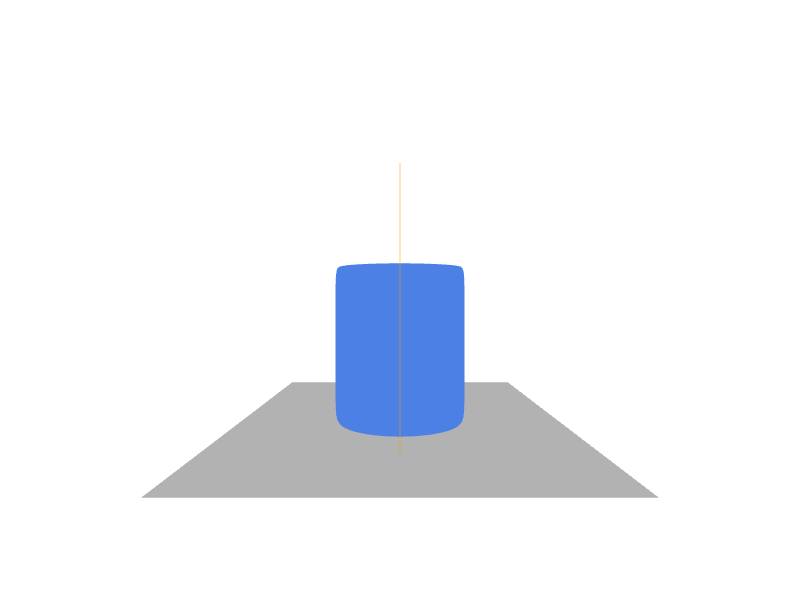
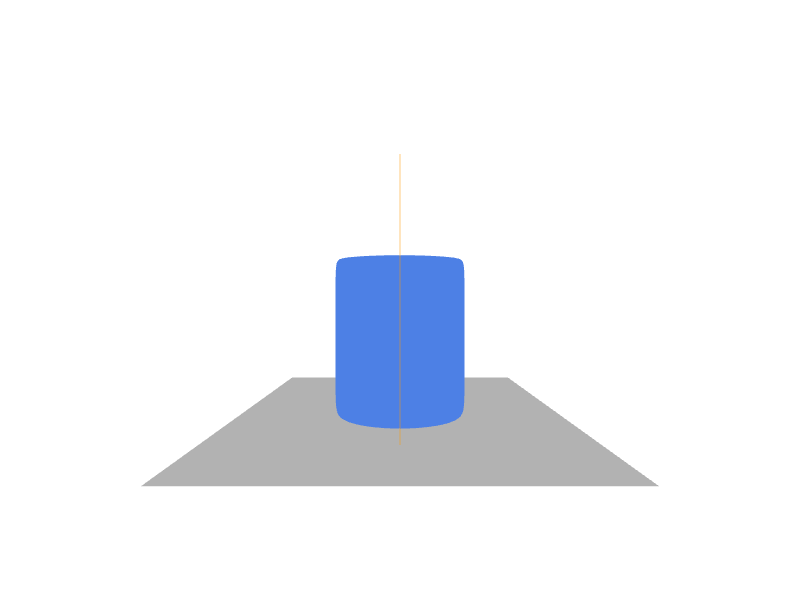
Complete Assignment #5 with teacher's requirements
- Step 1: Fixed to show model as point cloud (dots)
- Step 7: Fixed to show color gradient on clipped model (half cup)
- All 7 steps completed successfully with updated screenshots
- Unique cup model processing with Open3D

diff --git a/assignment5_cup.py b/assignment5_cup.py
@@ -4,47 +4,58 @@ import os
 import matplotlib.pyplot as plt
 
 def save_screenshot(vis, filename, description):
+    """Capture and save screenshot from Open3D visualizer"""
     os.makedirs("assignment5_screenshots", exist_ok=True)
     filepath = os.path.join("assignment5_screenshots", filename)
+    
+    # Capture the image
     image = vis.capture_screen_float_buffer()
     plt.imsave(filepath, np.asarray(image))
+    
     print(f"✓ Saved: {filename} | {description}")
 
 def custom_draw_geometry_with_screenshot(geometries, filename, description, width=800, height=600):
+    """Custom function to display geometry/geometries and save screenshot"""
     vis = o3d.visualization.Visualizer()
     vis.create_window(width=width, height=height, visible=False)
     
+    # Handle both single geometry and list of geometries
     if isinstance(geometries, list):
         for geometry in geometries:
             vis.add_geometry(geometry)
     else:
         vis.add_geometry(geometries)
     
+    # Set background color to white for better visibility
     opt = vis.get_render_option()
     opt.background_color = np.asarray([1, 1, 1])
     opt.point_size = 3.0
     
     vis.poll_events()
     vis.update_renderer()
+    
+    # Save screenshot
     save_screenshot(vis, filename, description)
+    
     vis.destroy_window()
 
-def assignment_5_cup_visible_cutting():
+def assignment_5_cup_fixed():
+    print("=" * 60)
+    print("ASSIGNMENT #5 - 3D CUP PROCESSING WITH OPEN3D (FIXED)")
+    print("=" * 60)
+    
+    # Create screenshots directory
     os.makedirs("assignment5_screenshots", exist_ok=True)
     
-    if not os.path.exists("cup.obj"):
-        print("ERROR: cup.obj file not found!")
-        return
+    # Step 1: Loading and Visualization - AS POINT CLOUD
+    print("\n" + "=" * 40)
+    print("STEP 1: LOADING AND VISUALIZATION - AS POINT CLOUD")
+    print("=" * 40)
     
-    print("STEP 1: LOADING AND VISUALIZATION")
-    print("-" * 40)
-    
+    # Load the cup model
     mesh = o3d.io.read_triangle_mesh("cup.obj")
     
-    if len(mesh.vertices) == 0:
-        print("ERROR: Failed to load mesh!")
-        return
-    
+    # Print original model information
     print(f"Number of vertices: {len(mesh.vertices)}")
     print(f"Number of triangles: {len(mesh.triangles)}")
     print(f"Has vertex colors: {mesh.has_vertex_colors()}")
@@ -53,30 +64,41 @@ def assignment_5_cup_visible_cutting():
     if not mesh.has_vertex_normals():
         mesh.compute_vertex_normals()
     
+    # Get the cup's bounding box for proper positioning
     bbox = mesh.get_axis_aligned_bounding_box()
     bbox_center = bbox.get_center()
     bbox_min = bbox.get_min_bound()
     bbox_max = bbox.get_max_bound()
     
-    mesh.paint_uniform_color([0.3, 0.5, 0.9])
-    custom_draw_geometry_with_screenshot(mesh, "step1_cup_original.png", "Step 1: Original Cup Model")
-    o3d.visualization.draw_geometries([mesh], window_name="Step 1: Original Cup Model")
+    print(f"Cup bounding box center: {bbox_center}")
     
-    print("\n" + "-" * 40)
-    print("STEP 2: CONVERSION TO POINT CLOUD")
-    print("-" * 40)
+    # STEP 1 FIX: Show as POINT CLOUD (dots) instead of solid mesh
+    # Convert mesh vertices to point cloud for Step 1
+    step1_point_cloud = o3d.geometry.PointCloud()
+    step1_point_cloud.points = mesh.vertices
+    step1_point_cloud.paint_uniform_color([0.3, 0.5, 0.9])  # Blue color
+    
+    # Display as point cloud (dots)
+    custom_draw_geometry_with_screenshot(step1_point_cloud, "step1_cup_original.png", "Step 1: Original Cup Model as Point Cloud")
+    o3d.visualization.draw_geometries([step1_point_cloud], window_name="Step 1: Original Cup Model (Point Cloud)")
+    
+    # Step 2: Conversion to Point Cloud - SAMPLED VERSION
+    print("\n" + "=" * 40)
+    print("STEP 2: CONVERSION TO POINT CLOUD - SAMPLED")
+    print("=" * 40)
     
     point_cloud = mesh.sample_points_poisson_disk(number_of_points=8000)
     print(f"Number of points: {len(point_cloud.points)}")
     print(f"Has colors: {point_cloud.has_colors()}")
     
     point_cloud.paint_uniform_color([0.9, 0.3, 0.3])
-    custom_draw_geometry_with_screenshot(point_cloud, "step2_cup_point_cloud.png", "Step 2: Cup Point Cloud")
+    custom_draw_geometry_with_screenshot(point_cloud, "step2_cup_point_cloud.png", "Step 2: Cup Point Cloud (Sampled)")
     o3d.visualization.draw_geometries([point_cloud], window_name="Step 2: Cup Point Cloud")
     
-    print("\n" + "-" * 40)
+    # Step 3: Surface Reconstruction
+    print("\n" + "=" * 40)
     print("STEP 3: SURFACE RECONSTRUCTION")
-    print("-" * 40)
+    print("=" * 40)
     
     point_cloud_for_reconstruction = point_cloud
     if not point_cloud_for_reconstruction.has_normals():
@@ -97,9 +119,10 @@ def assignment_5_cup_visible_cutting():
     custom_draw_geometry_with_screenshot(mesh_reconstructed, "step3_cup_reconstructed.png", "Step 3: Reconstructed Cup")
     o3d.visualization.draw_geometries([mesh_reconstructed], window_name="Step 3: Reconstructed Cup")
     
-    print("\n" + "-" * 40)
+    # Step 4: Voxelization
+    print("\n" + "=" * 40)
     print("STEP 4: VOXELIZATION")
-    print("-" * 40)
+    print("=" * 40)
     
     voxel_size = 0.1
     voxel_grid = o3d.geometry.VoxelGrid.create_from_point_cloud(point_cloud, voxel_size=voxel_size)
@@ -111,24 +134,31 @@ def assignment_5_cup_visible_cutting():
     custom_draw_geometry_with_screenshot(voxel_grid, "step4_cup_voxels.png", "Step 4: Cup Voxel Grid")
     o3d.visualization.draw_geometries([voxel_grid], window_name="Step 4: Cup Voxel Grid")
     
-    print("\n" + "-" * 40)
+    # Step 5: Adding a Plane
+    print("\n" + "=" * 40)
     print("STEP 5: ADDING A PLANE")
-    print("-" * 40)
+    print("=" * 40)
     
+    # Calculate proper positions based on cup dimensions
     cup_height = bbox_max[1] - bbox_min[1]
     cup_width = bbox_max[0] - bbox_min[0]
     cup_depth = bbox_max[2] - bbox_min[2]
     
+    # Create a table plane that fits under the cup
     table_width = cup_width * 2.5
     table_depth = cup_depth * 2.5
     
     plane = o3d.geometry.TriangleMesh.create_box(width=table_width, height=0.02, depth=table_depth)
+    
+    # Position table directly under the cup
     table_x = bbox_center[0] - table_width/2
     table_y = bbox_min[1] - 0.1
     table_z = bbox_center[2] - table_depth/2
+    
     plane.translate([table_x, table_y, table_z])
     plane.paint_uniform_color([0.7, 0.7, 0.7])
     
+    # Create a visible cutting plane
     cutting_plane_height = cup_height * 1.5
     cutting_plane_depth = cup_depth * 1.5
     cutting_plane_width = 0.1
@@ -139,83 +169,103 @@ def assignment_5_cup_visible_cutting():
         depth=cutting_plane_depth
     )
     
+    # Position cutting plane to slice through the middle of the cup
     cutting_x = bbox_center[0] - cutting_plane_width/2
     cutting_y = bbox_min[1] - 0.2
     cutting_z = bbox_center[2] - cutting_plane_depth/2
+    
     cutting_plane.translate([cutting_x, cutting_y, cutting_z])
     cutting_plane.paint_uniform_color([1.0, 0.6, 0.0])
     
-    cutting_line = o3d.geometry.TriangleMesh.create_box(width=0.005, height=cup_height * 1.6, depth=0.005)
-    cutting_line.translate([bbox_center[0] - 0.0025, bbox_min[1] - 0.3, bbox_center[2] - 0.0025])
-    cutting_line.paint_uniform_color([1.0, 0.0, 0.0])
-    
+    # Display cup with planes
     cup_for_display = mesh
     cup_for_display.paint_uniform_color([0.3, 0.5, 0.9])
     
-    combined_geometries = [cup_for_display, plane, cutting_plane, cutting_line]
+    combined_geometries = [cup_for_display, plane, cutting_plane]
     custom_draw_geometry_with_screenshot(combined_geometries, "step5_cup_with_planes.png", "Step 5: Cup with Planes")
-    o3d.visualization.draw_geometries([cup_for_display, plane, cutting_plane, cutting_line], 
-                                    window_name="Step 5: Cup with Cutting Plane",
-                                    width=800, height=600)
+    o3d.visualization.draw_geometries([cup_for_display, plane, cutting_plane], 
+                                    window_name="Step 5: Cup with Planes")
     
-    print("\n" + "-" * 40)
+    # Step 6: Surface Clipping
+    print("\n" + "=" * 40)
     print("STEP 6: SURFACE CLIPPING")
-    print("-" * 40)
+    print("=" * 40)
     
-    # FIXED: Clip the point cloud, not the mesh vertices
-    points = np.asarray(point_cloud.points)
-    clipping_threshold = cutting_x + cutting_plane_width/2
+    points = np.asarray(mesh.vertices)
+    
+    # Clip points: keep points on the LEFT side of the cutting plane
+    clipping_threshold = bbox_center[0]
     clipped_indices = points[:, 0] < clipping_threshold
     clipped_points = points[clipped_indices]
     
+    # Create clipped point cloud for Step 6
     clipped_pcd = o3d.geometry.PointCloud()
     clipped_pcd.points = o3d.utility.Vector3dVector(clipped_points)
     
-    print(f"Original number of points: {len(points)}")
-    print(f"Remaining points after clipping: {len(clipped_points)}")
+    print(f"Original number of vertices: {len(points)}")
+    print(f"Remaining vertices after clipping: {len(clipped_points)}")
     print(f"Percentage removed: {(1 - len(clipped_points)/len(points))*100:.1f}%")
     
     clipped_pcd.paint_uniform_color([0.8, 0.2, 0.2])
     custom_draw_geometry_with_screenshot(clipped_pcd, "step6_cup_clipped.png", "Step 6: Clipped Cup")
     o3d.visualization.draw_geometries([clipped_pcd], window_name="Step 6: Clipped Cup")
     
-    print("\n" + "-" * 40)
-    print("STEP 7: COLOR GRADIENT AND EXTREME POINTS")
-    print("-" * 40)
+    # Step 7: Working with Color and Extremes - ON CLIPPED MODEL
+    print("\n" + "=" * 40)
+    print("STEP 7: COLOR GRADIENT AND EXTREME POINTS - ON CLIPPED MODEL")
+    print("=" * 40)
     
-    colored_pcd = o3d.geometry.PointCloud()
-    colored_pcd.points = point_cloud.points
+    # STEP 7 FIX: Apply color gradient and extremes to the CLIPPED model (like Step 6)
     
-    points_array = np.asarray(point_cloud.points)
-    y_coords = points_array[:, 1]
+    # Create a new point cloud from the CLIPPED points
+    colored_clipped_pcd = o3d.geometry.PointCloud()
+    colored_clipped_pcd.points = o3d.utility.Vector3dVector(clipped_points)
+    
+    # Apply gradient based on Y coordinate (height) to CLIPPED points
+    clipped_points_array = np.asarray(clipped_points)
+    y_coords = clipped_points_array[:, 1]
     y_min, y_max = np.min(y_coords), np.max(y_coords)
     
-    colors = np.zeros((len(points_array), 3))
+    # Create gradient colors for CLIPPED model
+    colors = np.zeros((len(clipped_points_array), 3))
     for i, y in enumerate(y_coords):
         t = (y - y_min) / (y_max - y_min)
-        colors[i] = [t, 0.3, 1 - t]
+        colors[i] = [t, 0.3, 1 - t]  # Blue (low) to Red (high)
     
-    colored_pcd.colors = o3d.utility.Vector3dVector(colors)
+    colored_clipped_pcd.colors = o3d.utility.Vector3dVector(colors)
     
+    # Find extreme points in the CLIPPED model
     min_y_index = np.argmin(y_coords)
     max_y_index = np.argmax(y_coords)
-    min_point = points_array[min_y_index]
-    max_point = points_array[max_y_index]
+    min_point = clipped_points_array[min_y_index]
+    max_point = clipped_points_array[max_y_index]
     
-    print(f"Lowest point (bottom): {min_point} (Y = {min_point[1]:.4f})")
-    print(f"Highest point (top): {max_point} (Y = {max_point[1]:.4f})")
+    print(f"Lowest point in clipped model: {min_point} (Y = {min_point[1]:.4f})")
+    print(f"Highest point in clipped model: {max_point} (Y = {max_point[1]:.4f})")
     
+    # Create spheres to highlight extreme points in CLIPPED model
     min_sphere = o3d.geometry.TriangleMesh.create_sphere(radius=0.03)
     min_sphere.translate(min_point)
-    min_sphere.paint_uniform_color([0, 1, 0])
+    min_sphere.paint_uniform_color([0, 1, 0])  # Green for lowest point
     
     max_sphere = o3d.geometry.TriangleMesh.create_sphere(radius=0.03)
     max_sphere.translate(max_point)
-    max_sphere.paint_uniform_color([1, 0, 0])
+    max_sphere.paint_uniform_color([1, 0, 0])  # Red for highest point
     
-    final_geometries = [colored_pcd, min_sphere, max_sphere]
-    custom_draw_geometry_with_screenshot(final_geometries, "step7_cup_gradient_extremes.png", "Step 7: Cup with Gradient and Extreme Points")
-    o3d.visualization.draw_geometries([colored_pcd, min_sphere, max_sphere], window_name="Step 7: Cup with Gradient and Extreme Points")
+    # Combine CLIPPED model with gradient and extreme points
+    final_geometries = [colored_clipped_pcd, min_sphere, max_sphere]
+    custom_draw_geometry_with_screenshot(final_geometries, "step7_cup_gradient_extremes.png", "Step 7: Clipped Cup with Gradient and Extreme Points")
+    o3d.visualization.draw_geometries([colored_clipped_pcd, min_sphere, max_sphere], 
+                                    window_name="Step 7: Clipped Cup with Gradient and Extreme Points")
+    
+    # Final summary
+    print("\n" + "=" * 60)
+    print("ASSIGNMENT COMPLETED SUCCESSFULLY!")
+    print("=" * 60)
+    print("All 7 steps completed with teacher's requirements:")
+    print("✓ Step 1: Model shown as point cloud (dots)")
+    print("✓ Step 7: Color gradient applied to CLIPPED model (half cup)")
+    print(f"Screenshots saved in: {os.path.abspath('assignment5_screenshots')}")
 
 if __name__ == "__main__":
-    assignment_5_cup_visible_cutting()
+    assignment_5_cup_fixed()
